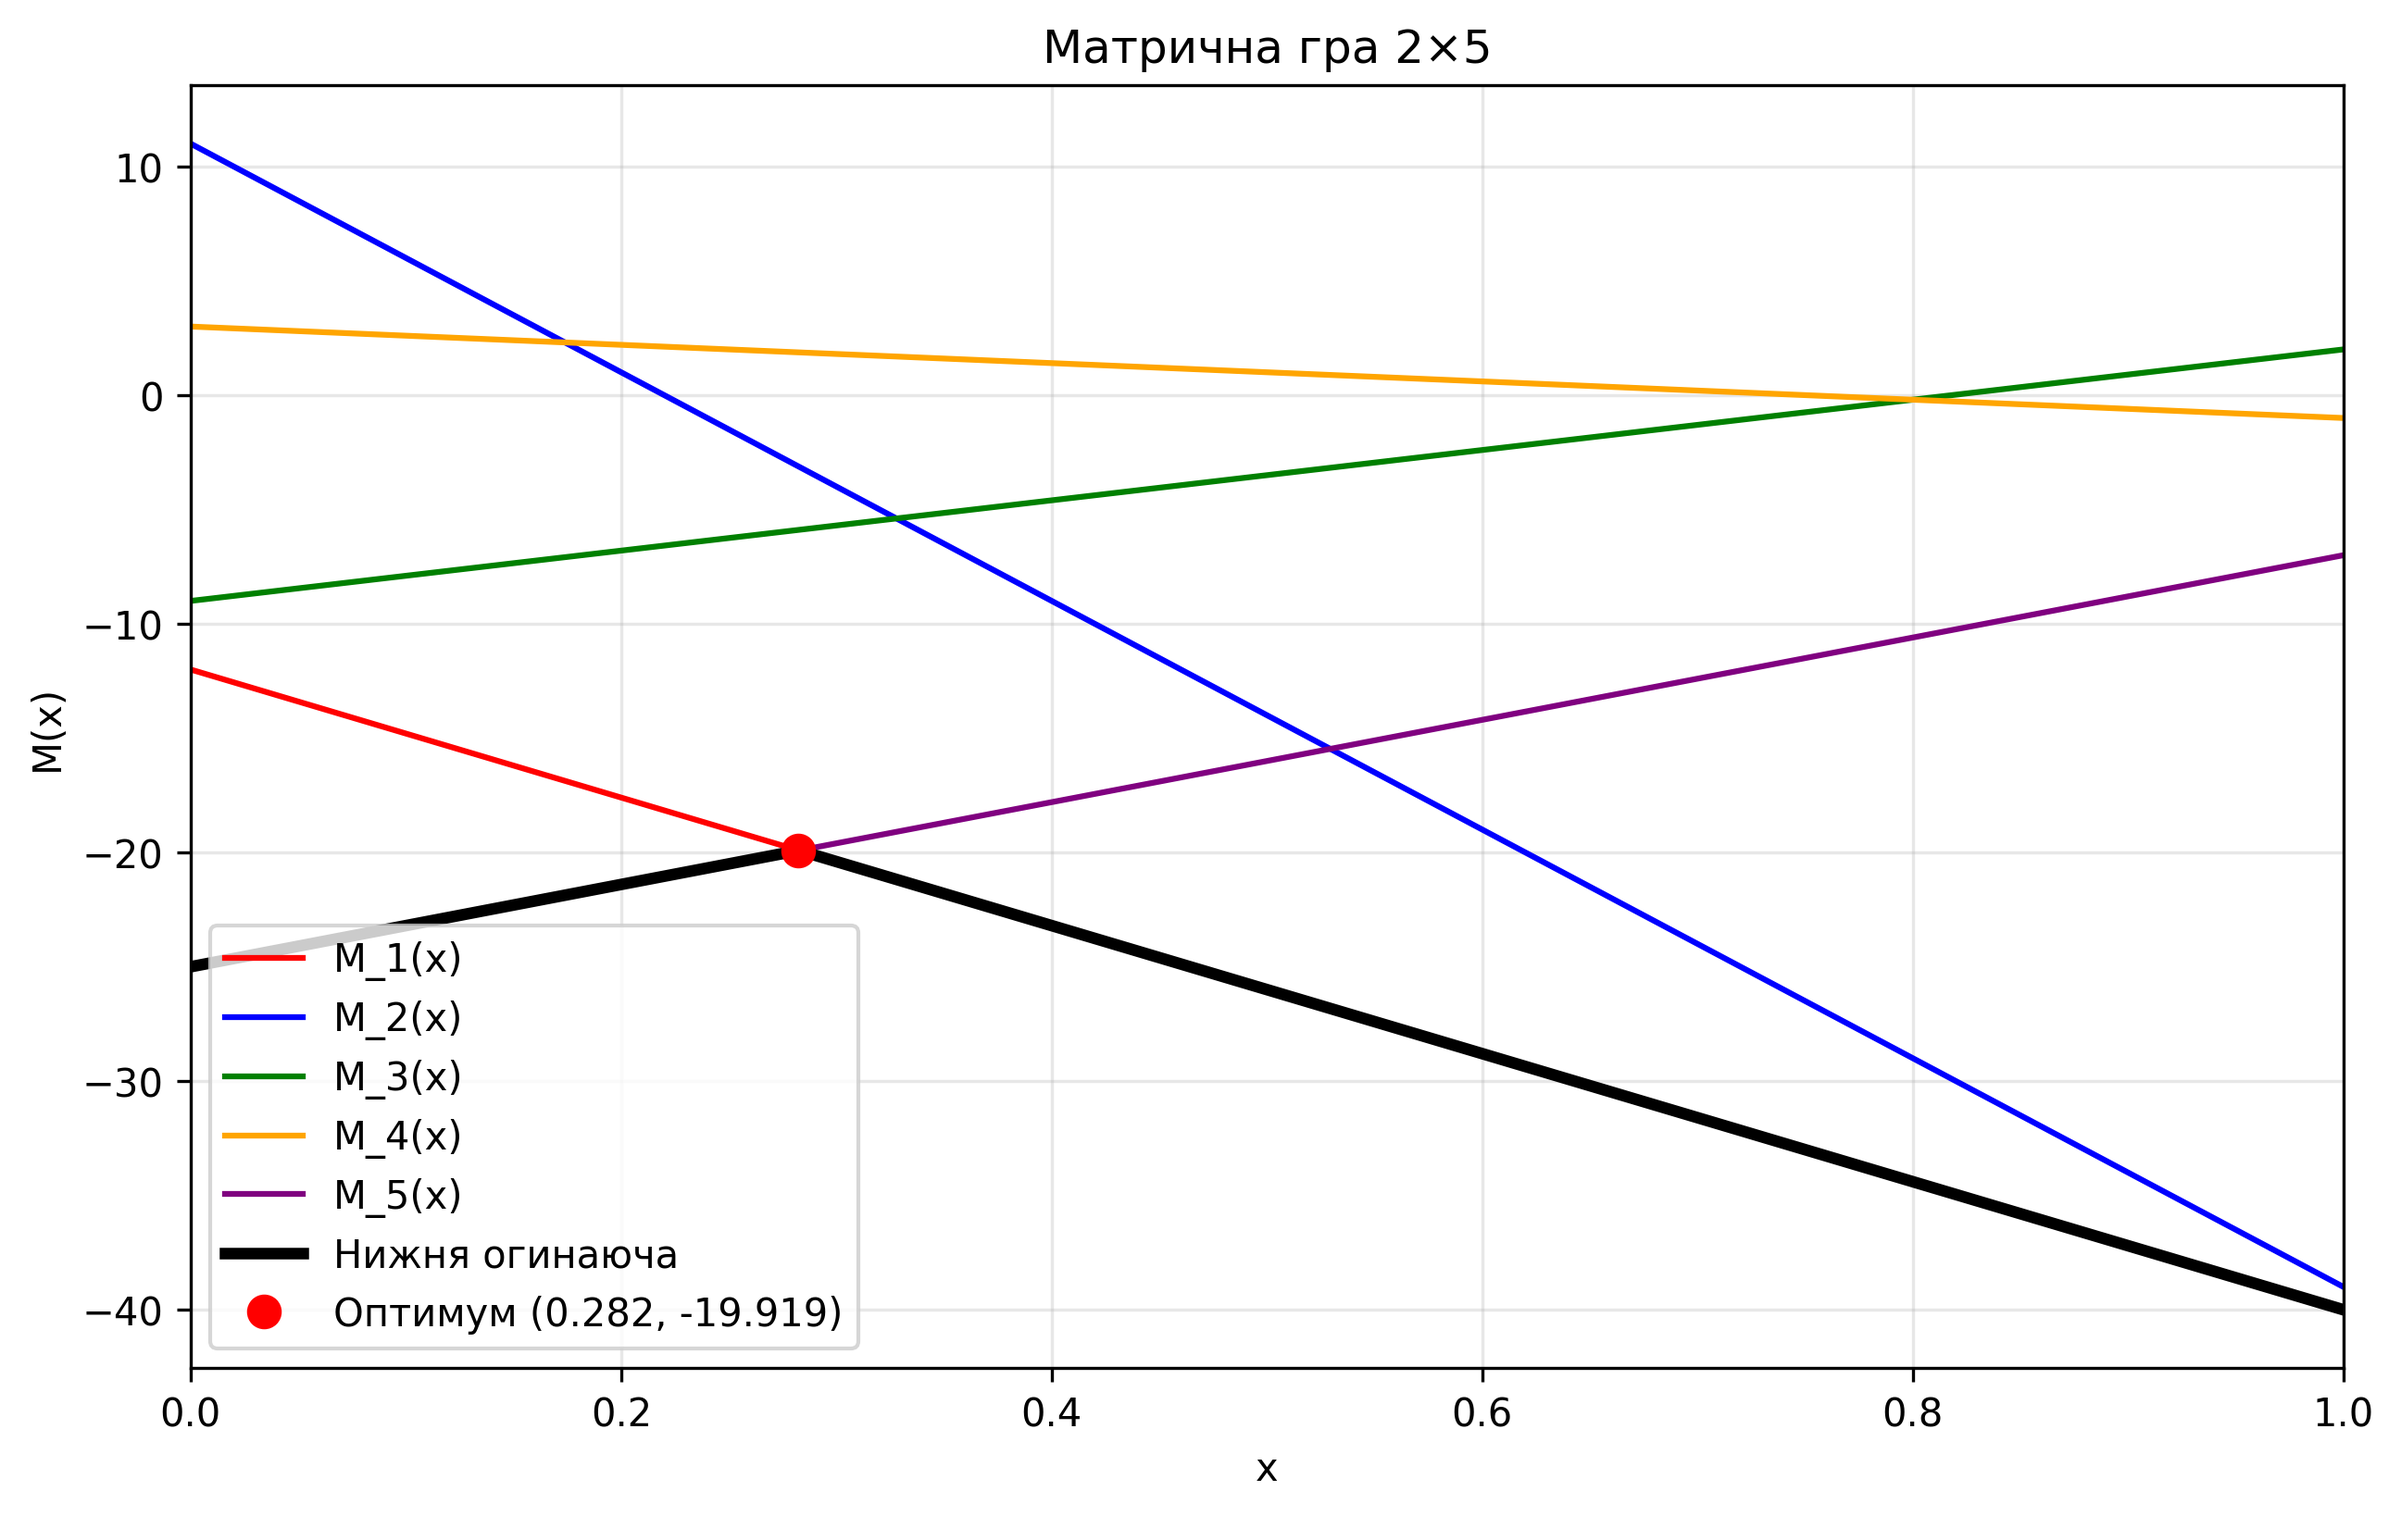
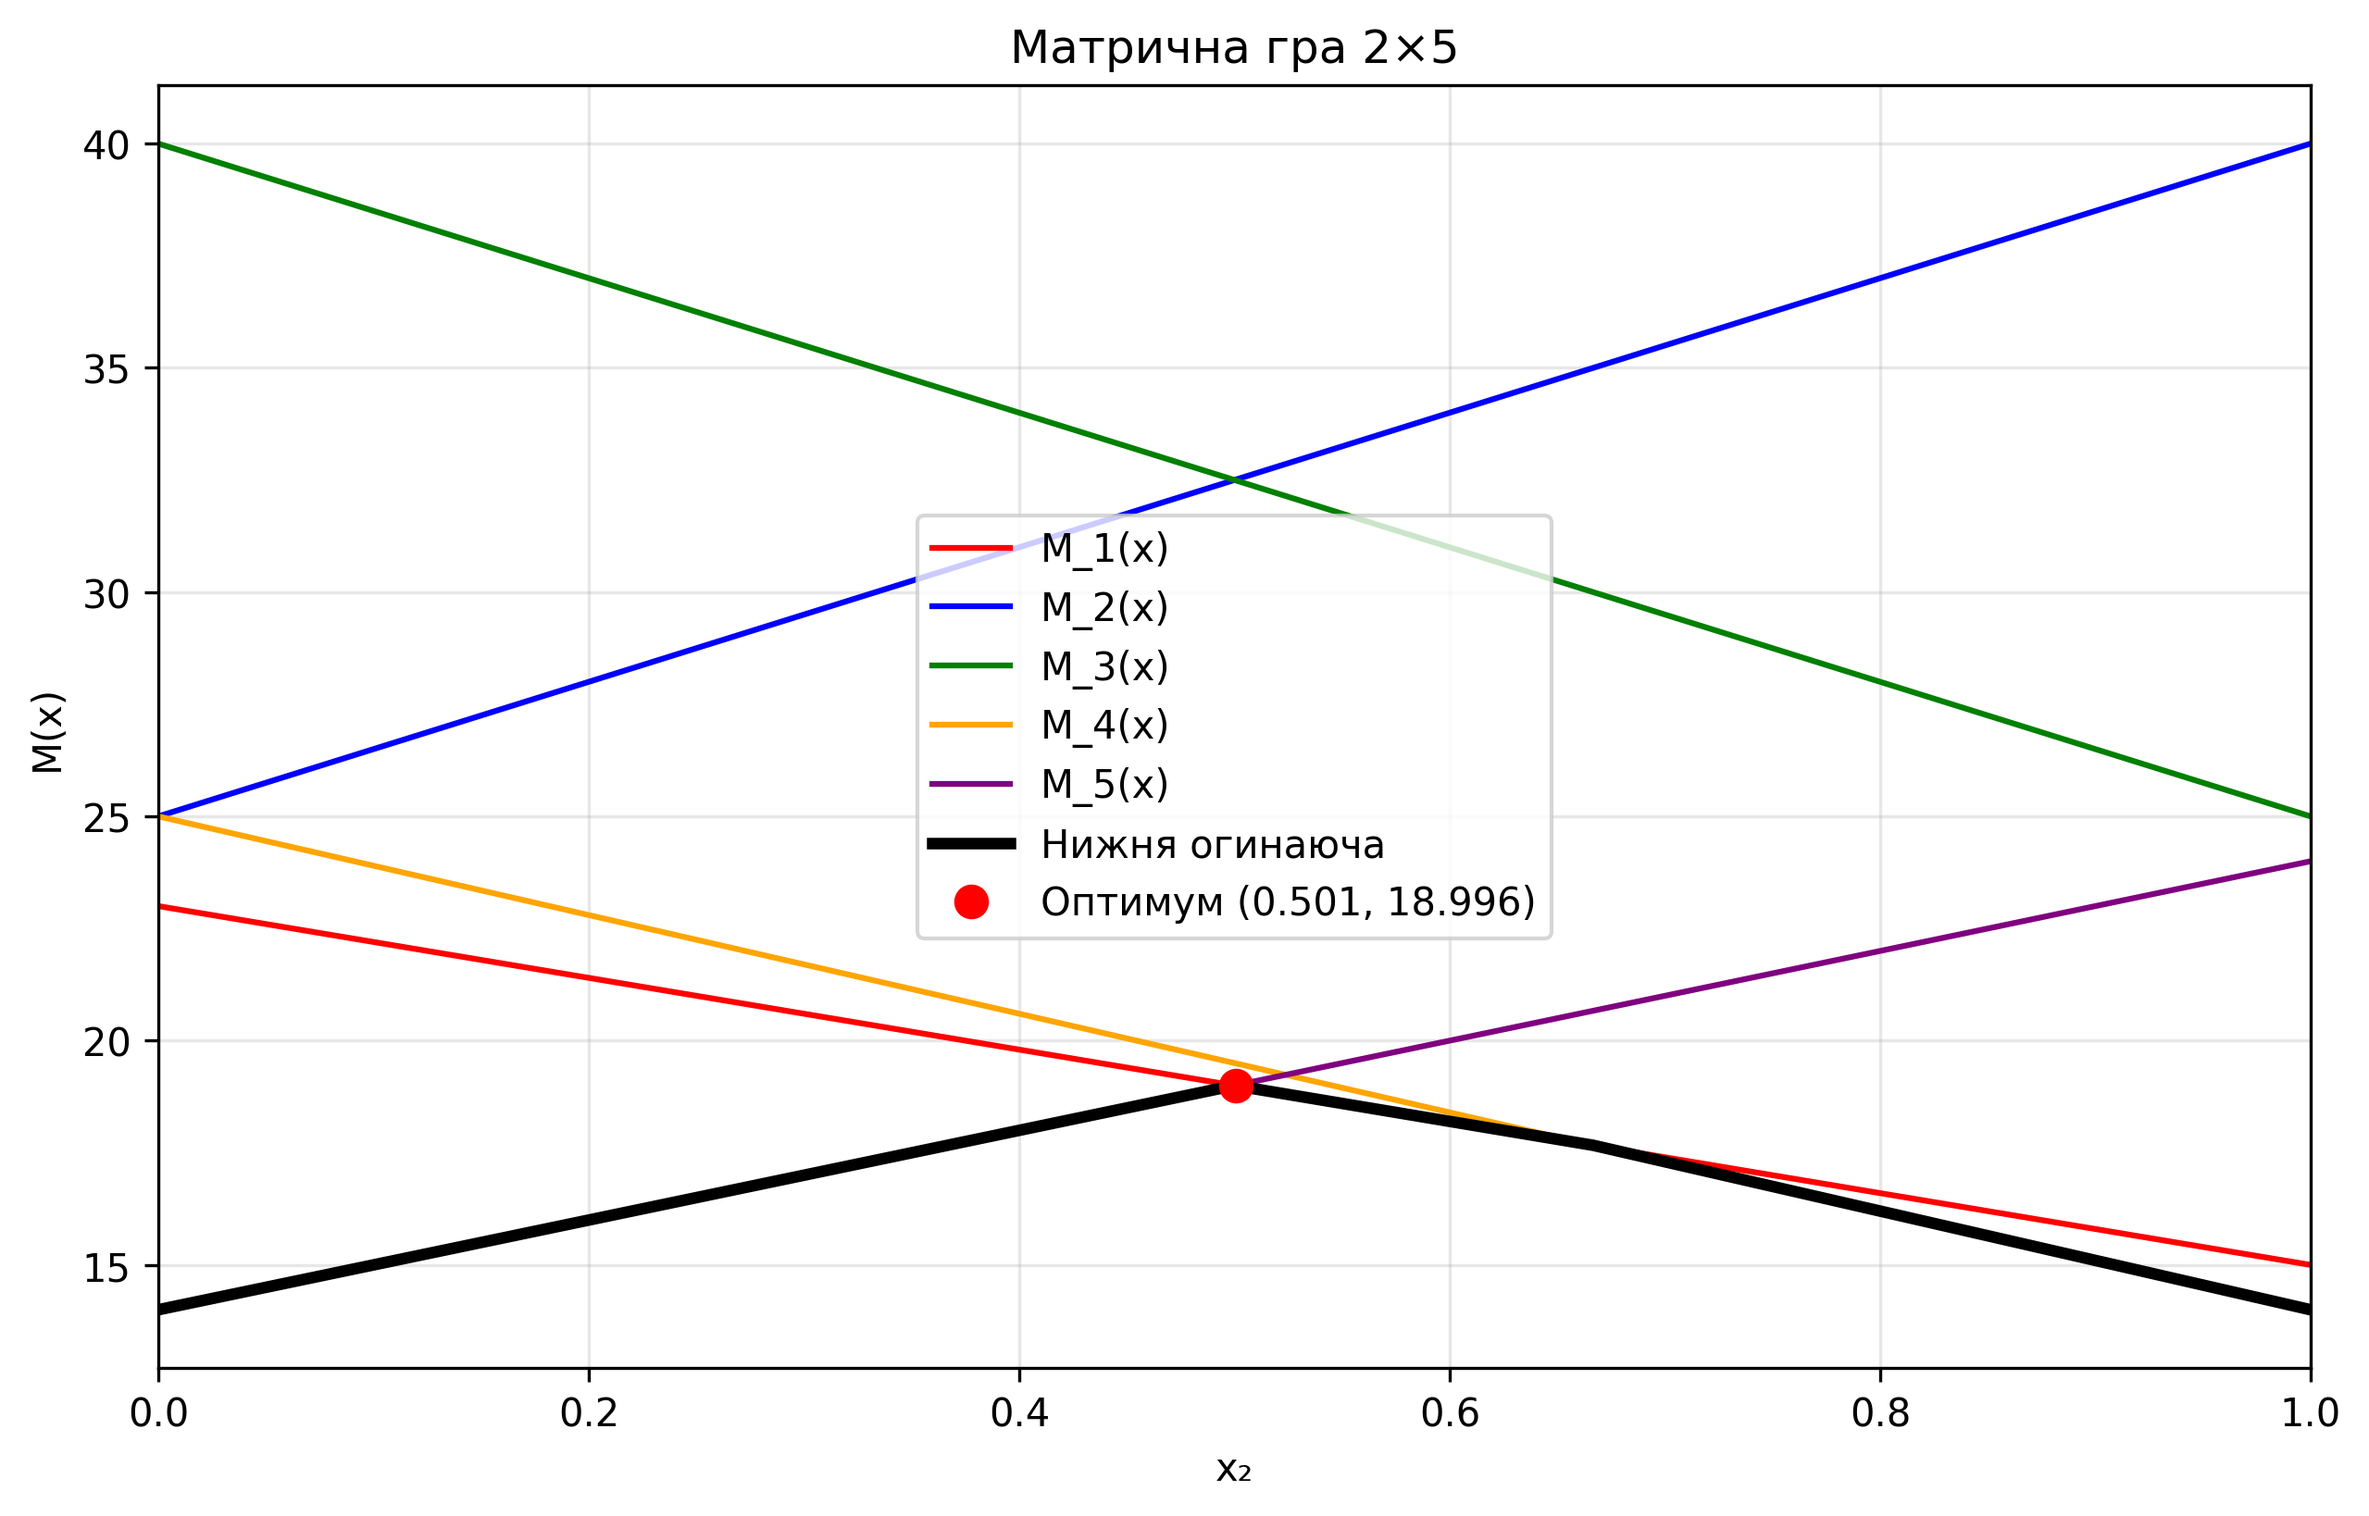
fixed lab3

diff --git a/lab3/main.py b/lab3/main.py
@@ -2,6 +2,7 @@ import numpy as np
 import matplotlib.pyplot as plt
 import os
 
+
 def solve_2xn_matrix_game(matrix, save_plot=True, filename=None):
     n = matrix.shape[1]
     
@@ -17,13 +18,13 @@ def solve_2xn_matrix_game(matrix, save_plot=True, filename=None):
     print(f"Максимін α = {maximin}, Мінімакс β = {minimax}")
     print(f"Сідлова точка: {'Так' if has_saddle else 'Ні'}")
     
-    # Графічний метод
+    # Графічний метод - ВИПРАВЛЕНО: рядок 1 зліва (x=0), рядок 2 справа (x=1)
     x = np.linspace(0, 1, 1000)
     functions = []
     
     for j in range(n):
-        coeff = matrix[0, j] - matrix[1, j]
-        const = matrix[1, j]
+        coeff = matrix[1, j] - matrix[0, j]
+        const = matrix[0, j]
         y = coeff * x + const
         functions.append(y)
     
@@ -32,7 +33,7 @@ def solve_2xn_matrix_game(matrix, save_plot=True, filename=None):
     opt_x = x[opt_idx]
     game_value = lower_envelope[opt_idx]
     
-    print(f"Оптимальна стратегія: x₁* = {opt_x:.4f}, x₂* = {1-opt_x:.4f}")
+    print(f"Оптимальна стратегія: x₁* = {1-opt_x:.4f}, x₂* = {opt_x:.4f}")
     print(f"Значення гри: v = {game_value:.4f}")
     
     # Графік
@@ -49,7 +50,7 @@ def solve_2xn_matrix_game(matrix, save_plot=True, filename=None):
         plt.plot(x, lower_envelope, 'black', linewidth=3, label='Нижня огинаюча')
         plt.plot(opt_x, game_value, 'ro', markersize=8, label=f'Оптимум ({opt_x:.3f}, {game_value:.3f})')
         
-        plt.xlabel('x')
+        plt.xlabel('x₂')
         plt.ylabel('M(x)')
         plt.title(f'Матрична гра 2×{n}')
         plt.legend()
@@ -64,10 +65,11 @@ def solve_2xn_matrix_game(matrix, save_plot=True, filename=None):
     
     return {
         'has_saddle_point': has_saddle,
-        'optimal_x': (opt_x, 1-opt_x),
+        'optimal_x': (1-opt_x, opt_x),
         'game_value': game_value,
         'saved_plot': filename if save_plot else None
     }
+
 
 def solve_mx2_matrix_game(matrix, save_plot=True, filename=None):
     m = matrix.shape[0]
@@ -84,13 +86,12 @@ def solve_mx2_matrix_game(matrix, save_plot=True, filename=None):
     print(f"Максимін α = {maximin}, Мінімакс β = {minimax}")
     print(f"Сідлова точка: {'Так' if has_saddle else 'Ні'}")
     
-    # Графічний метод
     y = np.linspace(0, 1, 1000)
     functions = []
     
     for i in range(m):
-        coeff = matrix[i, 0] - matrix[i, 1]
-        const = matrix[i, 1]
+        coeff = matrix[i, 1] - matrix[i, 0]
+        const = matrix[i, 0]
         values = coeff * y + const
         functions.append(values)
     
@@ -99,7 +100,8 @@ def solve_mx2_matrix_game(matrix, save_plot=True, filename=None):
     opt_y = y[opt_idx]
     game_value = upper_envelope[opt_idx]
     
-    print(f"Оптимальна стратегія: y₁* = {opt_y:.4f}, y₂* = {1-opt_y:.4f}")
+    # y тут це y2, тому y1 = 1-y
+    print(f"Оптимальна стратегія: y₁* = {1-opt_y:.4f}, y₂* = {opt_y:.4f}")
     print(f"Значення гри: v = {game_value:.4f}")
     
     # Графік
@@ -116,7 +118,7 @@ def solve_mx2_matrix_game(matrix, save_plot=True, filename=None):
         plt.plot(y, upper_envelope, 'black', linewidth=3, label='Верхня огинаюча')
         plt.plot(opt_y, game_value, 'ro', markersize=8, label=f'Оптимум ({opt_y:.3f}, {game_value:.3f})')
         
-        plt.xlabel('y')
+        plt.xlabel('y₂ (Ліва колонка ← → Права колонка)')
         plt.ylabel('N(y)')
         plt.title(f'Матрична гра {m}×2')
         plt.legend()
@@ -131,35 +133,40 @@ def solve_mx2_matrix_game(matrix, save_plot=True, filename=None):
     
     return {
         'has_saddle_point': has_saddle,
-        'optimal_y': (opt_y, 1-opt_y),
+        'optimal_y': (1-opt_y, opt_y),
         'game_value': game_value,
         'saved_plot': filename if save_plot else None
     }
 
+
 def main():
+    # ВАРІАНТ 9 з методички
     print("\nЗавдання 1:")
-    A1 = np.array([[-40, -25, -10, 0, 5], [-50, -45, -30, -20, -15]])
-    r1 = solve_2xn_matrix_game(A1, filename='graphs/1.png')
+    A1 = np.array([[5, 2, 4, 5, 24], 
+                   [5, 5, 11, 5, 19]])
+    r1 = solve_2xn_matrix_game(A1, filename='lab3/graphs/1.png')
     
     print("\nЗавдання 2:")
-    A2 = np.array([[-40, -39, 2, -1, -7], [-12, 11, -9, 3, -25]])
-    r2 = solve_2xn_matrix_game(A2, filename='graphs/2.png')
+    A2 = np.array([[23, 25, 40, 25, 14], 
+                   [15, 40, 25, 14, 24]])
+    r2 = solve_2xn_matrix_game(A2, filename='lab3/graphs/2.png')
     
     print("\nЗавдання 3:")
-    A3 = np.array([[-40, -20], [-25, -10], [-50, -30]])
-    r3 = solve_mx2_matrix_game(A3, filename='graphs/3.png')
+    A3 = np.array([[5, 4], 
+                   [2, 11], 
+                   [4, 5], 
+                   [5, 24]])
+    r3 = solve_mx2_matrix_game(A3, filename='lab3/graphs/3.png')
 
     print("\nЗавдання 4:")
-    A4 = np.array([[-40, -25], [-15, -35], [-5, -20]])
-    r4 = solve_mx2_matrix_game(A4, filename='graphs/4.png')
+    A4 = np.array([[10, 40], 
+                   [25, 35], 
+                   [40, 25], 
+                   [25, 14]])
+    r4 = solve_mx2_matrix_game(A4, filename='lab3/graphs/4.png')
     
     return [r1, r2, r3, r4]
 
-# Приклад використання
+
 if __name__ == "__main__":
-    # Створити всі завдання для варіанту 10
     results = main()
-    
-    # Або розв'язати одну матрицю
-    # A = np.array([[1, 2, 3], [4, 5, 6]])
-    # result = solve_2xn_matrix_game(A)
